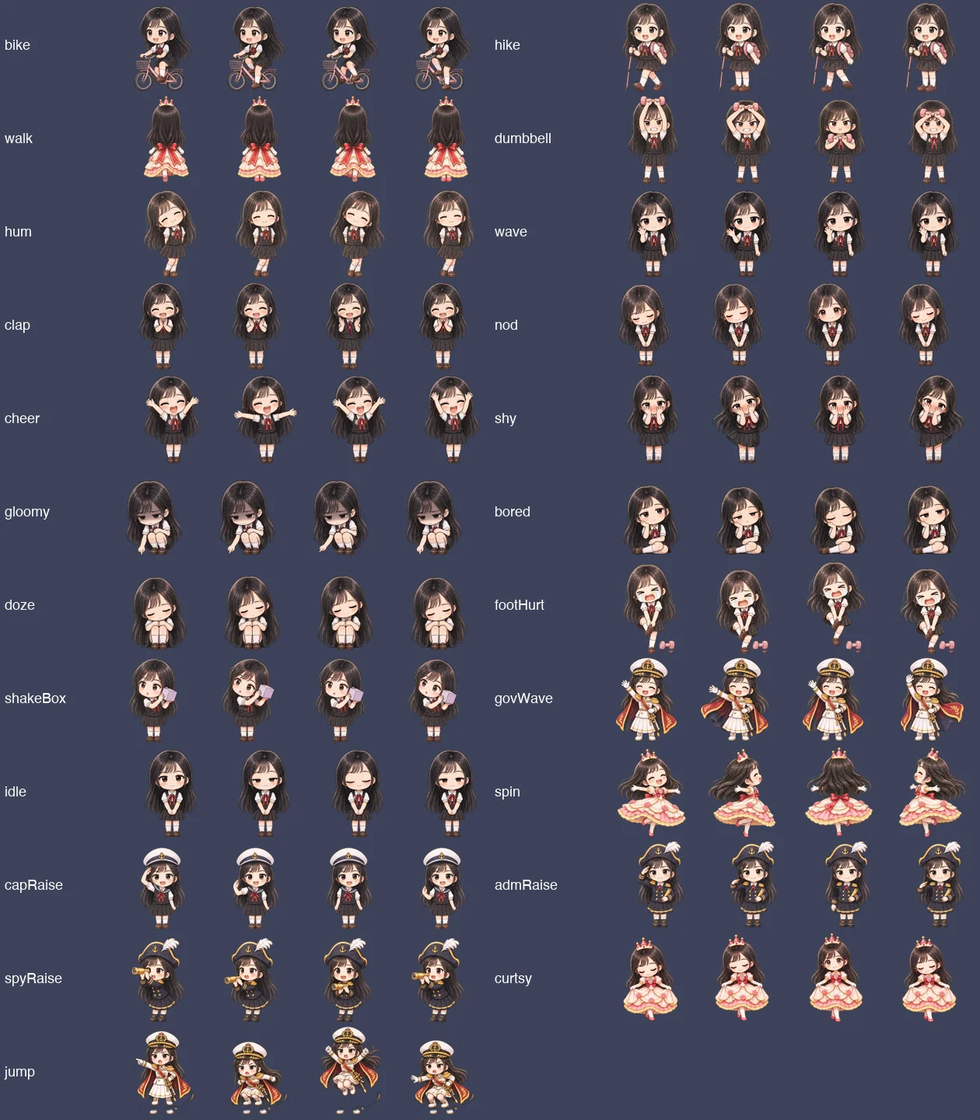
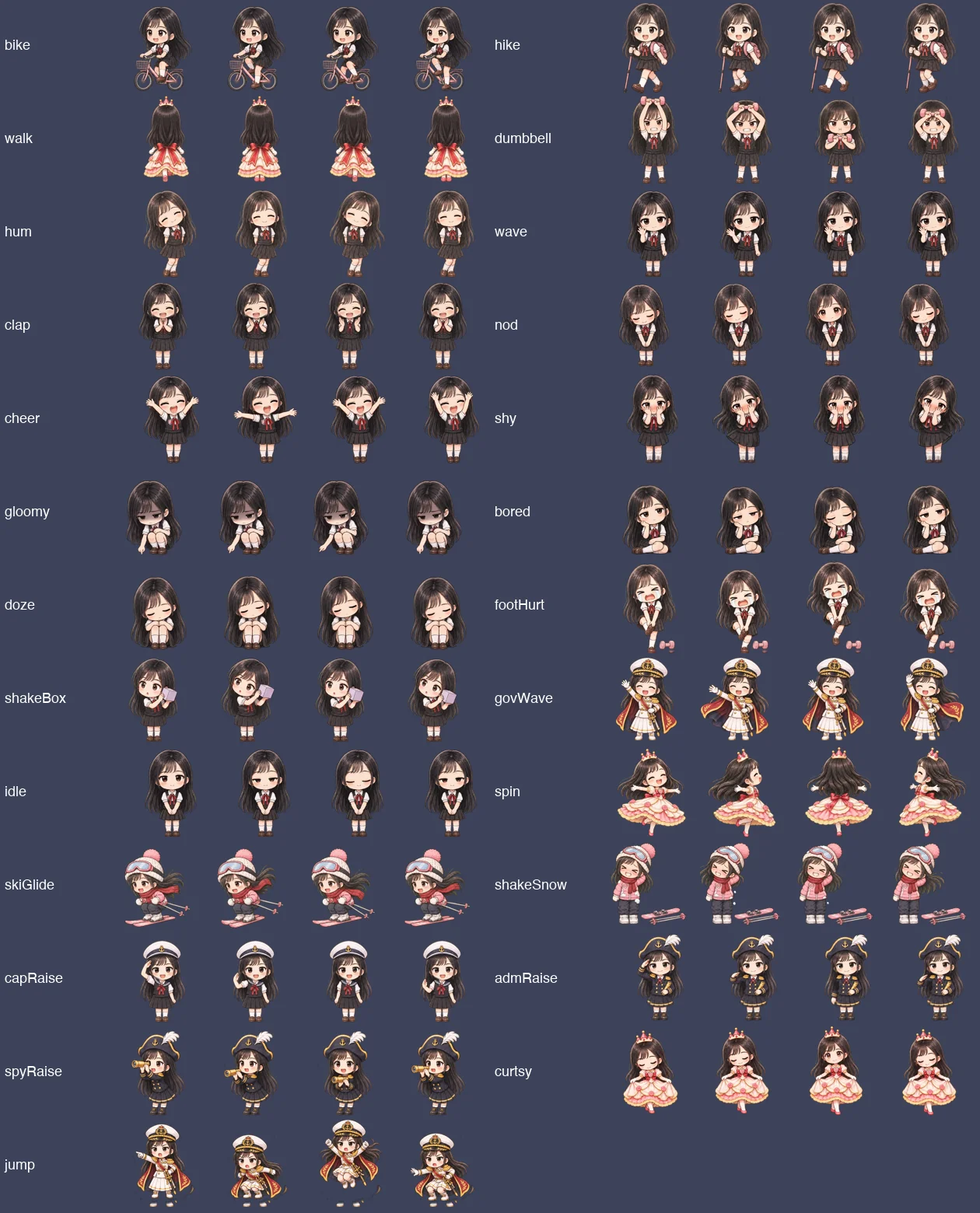
docs: skiing for the desktop pet: the ski outfit and pose sheet 9, gliding and snow-shaking loops, in-betweens for the push-off and the head-first dive into snow, snow effects, and the sprite dressing her for it (#343)

diff --git a/docs/design/desktop-pet/boards/DP-DesktopPet.dc.html b/docs/design/desktop-pet/boards/DP-DesktopPet.dc.html
@@ -21,7 +21,7 @@ const BLOB = {
   day: '44e8beefd8e45a42a6db32a53b6a334b',
   common: '42f6d5fefeb6902a1a4dc62b6c0067c8', lottery: '85f32c91efe3a008f7ed1db40b723468', daily1: '1f7f6b869458e1fe8e81a976d8c31c4b',
   daily2: '1280366333103c7aab9ebf8d542ec1d0', moods: '2056e8d40333e68b7ca945c2ca09b123', gifts: '721b9f2f46599b21e7a46be69defe025',
-  castleSheet: '77ad9c1043a788d9481660bca02fc61d', voyage: '2d87401633f8acd040fc4ad45a083fb6',
+  castleSheet: '77ad9c1043a788d9481660bca02fc61d', voyage: '2d87401633f8acd040fc4ad45a083fb6', ski9: 'ee1c422b8456422ef8a33aba40cd879a',
   sp1: '26e419983fd50915beebe9874c8f580f', sp2: '798d2599257e9749035aa3049a19ea28',
   castleClosed: 'a5423ebc571dd5c837a1759c2e34534f', castleOpen: '1fae311556a3e785a50c209107064a25', ship: '64f045ceb5e565290d330780f7c0006f',
   views: '7761f2f7cddf5ed1d69e16c20647f65b',
@@ -36,10 +36,11 @@ const POSE = {
   bored: ['moods', 1], gloomy: ['moods', 2], pout: ['moods', 3], shy: ['moods', 4], awake: ['moods', 5],
   giftBox: ['gifts', 1], shakeBox: ['gifts', 2], openBox: ['gifts', 3], crownV: ['gifts', 4], nod: ['gifts', 5],
   pIdle: ['castleSheet', 0], spin: ['castleSheet', 1], curtsy: ['castleSheet', 2], walkA: ['castleSheet', 3], walkB: ['castleSheet', 4], lookBack: ['castleSheet', 5],
+  skiReady: ['ski9', 1], ski: ['ski9', 2], skiDown: ['ski9', 3], skiPopOut: ['ski9', 4], skiShake: ['ski9', 5],
   capSalute: ['voyage', 1], govJump: ['voyage', 4], spyglass: ['voyage', 2], admSalute: ['voyage', 3], govPoint: ['voyage', 4], govWave: ['voyage', 5]
 };
 // Frame strips (textures/frames/<name>.webp, four frames in a row; tools/gen-frames.sh, tools/frame-patch.py), by blob.
-const FRAMES = {admRaise: '920a18b1f70d454f0d2b884c7d37ffeb', announceIn: '306b48e9115c2f0c13d29aadbf650756', awake: '4f027414161a138c012f61fe2b263359', bandageIn: '4468b7f7d9c64165a920f385d5f47d26', bandageOut: 'b7a0a17f9dec4d9c9ce8c04a11dd37c7', bike: '7206bd613e435e9426609c5552a4c815', bikeCrash: 'a1c683a18d6bb8e93046286341f31b97', bikeIn: 'e8ea46207bf7e4b84d8c726dcc6181e8', bored: 'a4fd757ecae8bdcac080f4e20cb5ccf2', boredGloomy: '98b8ddfe78bd8d6f40c70d1fe0fc2b64', bowIn: '4fd33bac034a8804e1dfd29875241114', boxOpen: 'ef5c7bfd191b3f22568fad0a803b253e', capRaise: '68cbd5c818e1c00ef3a0f9cae1a5344b', cheer: 'c9a119fda6ac63d8f8d472949b98bc35', cheerOut: 'c82759a6fb017322584b5ca4a291444b', clap: 'd7ca70eb6d31d788fa3a7e5ed4420ed7', crackIn: '87a1c1101bb84dcea9ace89cca0207f1', crackOut: 'a0850d3bd42b1d4cd9ce612029f2c6e1', crashUp: '0ad6886907739b5ebf634deb714d844f', crouchGloomy: '5608ce7bb43d12c81bd26f9d62d16942', crownIn: '60d1e736ef9a246e20d23b8711a06846', curtsy: 'a64d8440ff3a36b27ad4080e69db20c6', curtsyTurn: 'a5a3ad7628abc61b7079d2ec88c1774a', dejectedIn: '1ecea02c4aed0231fa402a0dd4882d46', doze: '847586754fb4e20f8cfc149a47469798', dropFoot: 'b21a232f44ceebac8ff1ef53e7e18fb3', dumbbell: '66f4fc15741691537abad54c757b0f4c', dumbbellIn: '172a69a54c88ca6b3aab1bfece198cb9', footHurt: '60b7171dc5901680cbb6fbcf061d8c71', footHurtOut: 'dcdddc6870cccd28e4a08cd600dae692', giftCheer: '327a50da69022e7599e70b0aa250a192', giftIn: '483f875031d6866af8f19372d5497f8c', gloomy: '62c2217eff19c08cbad011553eaa7f4b', gloomyDoze: '5977b9c36e757fa6dd611e60874bb912', govPointWave: '54ab6ea8f985130c8416f093ec54e98d', govWave: '9e3a9fdbcc32c4e3a607a595fac7c1f2', hike: '34df1a1ca19386e51a6db4f7b6c7c429', hikeIn: '140906319f4ef30e12f87e32efe1e358', hopeCheer: 'ad5cf07cda9161a1125c29ec50ff6d14', hopeClap: 'e82b99718817c003396b9211f552e97d', hopeIn: 'af9cf67116d97e77b8715834c1ea3946', hopeNod: '18d396277ea53803aab8025f4b89d334', hum: '5f4ff3fffcd8d3c47430a86da376574a', humIn: '2fdb1e22692896982c3d98cc6b3a8fee', idle: 'b74812427826eaf4098b1fbc4d1a78d4', jump: 'c51cb12468e4afb08561333bba777b51', lookBackIn: 'df3739f496aaa798f63696804b74d473', lookBackOut: '7bba58052852f687a6a473093b05036b', nod: '702f52ca11029fd9fd4ba08f5c01b626', openPout: 'e7845c90f17da61d3298b642c0bc095f', openSurprised: '5bb6d4fb8afe7fdb3772237b8383cd89', pointIn: '8472fc78f8e1f2debd8cd0b0edb2342e', shakeBox: '5beaa7f638ca7c0dbb0bcf90d731ba98', shakeIn: '48a29222f51ca2942ba5facfc09933fe', shy: '6879278a05024f916b5a9b8f8b3d9bf7', shyIn: '29596c210974361d003a980b0633b66a', sitBored: '80867232a5e50ab4272cb19a78ea3dbe', sitDoze: '9998909b0c3bc0a44ee1e17476715e09', slipFall: 'cc616b89034065ad154743b70b94882c', spFlag: '2e0e9fb19d5a8be126b12532f67cb877', spFly1: '83a5a48403903d4f39f9da51e0012294', spFly2: '87600b97c197c44a1cb9fc55cc76b84d', spFly3: '2f06f4e2aba9c2855b1c2fee22f6a1f4', spGlow: '0ae9d33e8e08c4cb20797bd64fcaeb0a', spHappy: '6fea3a2cde9432871a2a4a7b4b3a3b05', spHide: 'b3b7a681028216547fced194378e4642', spIdle: '70d620c5f164e57bd46e95154a9c8396', spNod: '631236e3cb235cf6e45d906ac4f70b41', spPat: '2e897fd4048e4fb2ba4e2fa9832931dd', spSleep: '5415e0a5fc476a9ac06e7427a3a9627c', spSurprised: '2a71af2381fb09f67fce34682a09c9e3', spYawn: '5dfd246affdea738a053630d72d7a726', spin: 'bc73c6bf04791daca5a8fb579648cced', spyRaise: '016558ba47cdc5e0e22cfd3120c2666e', spySalute: 'b5e2f2348aa7d42ac902dd0fc888a00a', surprisedCheer: '4afc354d6304b738b6ac2a463217db1b', surprisedIn: 'a76e1f3a09a188648ff99ed5f7d0b7c4', walk: '33afb9a37123ef3e90a974a91049ce57', wave: '39a6cd30e03a020265e6deb6404581a1', waveIn: 'dd074767e81d79dccc80b42cb58d22ab'};
+const FRAMES = {admRaise: '920a18b1f70d454f0d2b884c7d37ffeb', announceIn: '306b48e9115c2f0c13d29aadbf650756', awake: '4f027414161a138c012f61fe2b263359', bandageIn: '4468b7f7d9c64165a920f385d5f47d26', bandageOut: 'b7a0a17f9dec4d9c9ce8c04a11dd37c7', bike: '7206bd613e435e9426609c5552a4c815', bikeCrash: 'a1c683a18d6bb8e93046286341f31b97', bikeIn: 'e8ea46207bf7e4b84d8c726dcc6181e8', bored: 'a4fd757ecae8bdcac080f4e20cb5ccf2', boredGloomy: '98b8ddfe78bd8d6f40c70d1fe0fc2b64', bowIn: '4fd33bac034a8804e1dfd29875241114', boxOpen: 'ef5c7bfd191b3f22568fad0a803b253e', capRaise: '68cbd5c818e1c00ef3a0f9cae1a5344b', cheer: 'c9a119fda6ac63d8f8d472949b98bc35', cheerOut: 'c82759a6fb017322584b5ca4a291444b', clap: 'd7ca70eb6d31d788fa3a7e5ed4420ed7', crackIn: '87a1c1101bb84dcea9ace89cca0207f1', crackOut: 'a0850d3bd42b1d4cd9ce612029f2c6e1', crashUp: '0ad6886907739b5ebf634deb714d844f', crouchGloomy: '5608ce7bb43d12c81bd26f9d62d16942', crownIn: '60d1e736ef9a246e20d23b8711a06846', curtsy: 'a64d8440ff3a36b27ad4080e69db20c6', curtsyTurn: 'a5a3ad7628abc61b7079d2ec88c1774a', dejectedIn: '1ecea02c4aed0231fa402a0dd4882d46', doze: '847586754fb4e20f8cfc149a47469798', dropFoot: 'b21a232f44ceebac8ff1ef53e7e18fb3', dumbbell: '66f4fc15741691537abad54c757b0f4c', dumbbellIn: '172a69a54c88ca6b3aab1bfece198cb9', footHurt: '60b7171dc5901680cbb6fbcf061d8c71', footHurtOut: 'dcdddc6870cccd28e4a08cd600dae692', giftCheer: '327a50da69022e7599e70b0aa250a192', giftIn: '483f875031d6866af8f19372d5497f8c', gloomy: '62c2217eff19c08cbad011553eaa7f4b', gloomyDoze: '5977b9c36e757fa6dd611e60874bb912', govPointWave: '54ab6ea8f985130c8416f093ec54e98d', govWave: '9e3a9fdbcc32c4e3a607a595fac7c1f2', hike: '34df1a1ca19386e51a6db4f7b6c7c429', hikeIn: '140906319f4ef30e12f87e32efe1e358', hopeCheer: 'ad5cf07cda9161a1125c29ec50ff6d14', hopeClap: 'e82b99718817c003396b9211f552e97d', hopeIn: 'af9cf67116d97e77b8715834c1ea3946', hopeNod: '18d396277ea53803aab8025f4b89d334', hum: '5f4ff3fffcd8d3c47430a86da376574a', humIn: '2fdb1e22692896982c3d98cc6b3a8fee', idle: 'b74812427826eaf4098b1fbc4d1a78d4', jump: 'c51cb12468e4afb08561333bba777b51', lookBackIn: 'df3739f496aaa798f63696804b74d473', lookBackOut: '7bba58052852f687a6a473093b05036b', nod: '702f52ca11029fd9fd4ba08f5c01b626', openPout: 'e7845c90f17da61d3298b642c0bc095f', openSurprised: '5bb6d4fb8afe7fdb3772237b8383cd89', pointIn: '8472fc78f8e1f2debd8cd0b0edb2342e', shakeBox: '5beaa7f638ca7c0dbb0bcf90d731ba98', shakeIn: '48a29222f51ca2942ba5facfc09933fe', shakeSnow: '68e683906ab52c85073f189513ae753a', shy: '6879278a05024f916b5a9b8f8b3d9bf7', shyIn: '29596c210974361d003a980b0633b66a', sitBored: '80867232a5e50ab4272cb19a78ea3dbe', sitDoze: '9998909b0c3bc0a44ee1e17476715e09', skiFall: 'cdd6a4797f82513ffcdf9be2a6fcad0d', skiGlide: '3fe5bd0a4f5179defe1adc42d1de8223', skiGo: 'e2a516ecc2531d03d5439b767197cd2e', skiPop: 'c44fb1549510b4e2b0a9ad04a62bdf87', skiUp: '15d4b2b2af6c0b5321c88fadef2d9270', slipFall: 'cc616b89034065ad154743b70b94882c', spFlag: '2e0e9fb19d5a8be126b12532f67cb877', spFly1: '83a5a48403903d4f39f9da51e0012294', spFly2: '87600b97c197c44a1cb9fc55cc76b84d', spFly3: '2f06f4e2aba9c2855b1c2fee22f6a1f4', spGlow: '0ae9d33e8e08c4cb20797bd64fcaeb0a', spHappy: '6fea3a2cde9432871a2a4a7b4b3a3b05', spHide: 'b3b7a681028216547fced194378e4642', spIdle: '70d620c5f164e57bd46e95154a9c8396', spNod: '631236e3cb235cf6e45d906ac4f70b41', spPat: '2e897fd4048e4fb2ba4e2fa9832931dd', spSleep: '5415e0a5fc476a9ac06e7427a3a9627c', spSurprised: '2a71af2381fb09f67fce34682a09c9e3', spYawn: '5dfd246affdea738a053630d72d7a726', spin: 'bc73c6bf04791daca5a8fb579648cced', spyRaise: '016558ba47cdc5e0e22cfd3120c2666e', spySalute: 'b5e2f2348aa7d42ac902dd0fc888a00a', surprisedCheer: '4afc354d6304b738b6ac2a463217db1b', surprisedIn: 'a76e1f3a09a188648ff99ed5f7d0b7c4', walk: '33afb9a37123ef3e90a974a91049ce57', wave: '39a6cd30e03a020265e6deb6404581a1', waveIn: 'dd074767e81d79dccc80b42cb58d22ab'};
 // Poses that move: the strip f, drawn from the pose's own cell, as a loop at ms per frame, a loop of [frame, ms] steps, or
 // once: [frame, ms] steps from when the pose begins, holding the last.
 const STRIP = {
@@ -50,6 +51,7 @@ const STRIP = {
   idle: { f: 'idle', loop: [[0, 3400], [1, 50], [2, 70], [3, 50]] }, bored: { f: 'bored', loop: [[0, 2600], [1, 160], [2, 500], [3, 160]] },
   capSalute: { f: 'capRaise', once: [[2, 120], [1, 100], [0, 0]] }, admSalute: { f: 'admRaise', once: [[2, 120], [1, 100], [0, 0]] },
   spyglass: { f: 'spyRaise', once: [[2, 140], [1, 120], [0, 0]] }, curtsy: { f: 'curtsy', once: [[2, 200], [1, 160], [0, 0]] },
+  ski: { f: 'skiGlide', ms: 170 }, skiShake: { f: 'shakeSnow', ms: 110 },
   govJump: { f: 'jump', once: [[0, 60], [1, 140], [2, 300], [3, 160], [0, 0]] }
 };
 // The sprite's drawings that move, [strip, ms per frame]; v1–v3 are its turnaround views flying.
@@ -68,7 +70,8 @@ const TRANS = {
   'idle>dejected': 'dejectedIn', 'idle>dumbbell': 'dumbbellIn', 'dumbbell>footHurt': 'dropFoot', 'footHurt>idle': 'footHurtOut', 'idle>hum': 'humIn',
   'hum>crack': 'crackIn', 'crack>idle': 'crackOut', 'idle>hike': 'hikeIn', 'idle>bike': 'bikeIn', 'slip>bandage': 'bandageIn', 'crash>bandage': 'crashUp',
   'bandage>idle': 'bandageOut', 'curtsy>walkA': 'curtsyTurn', 'walkA>lookBack': 'lookBackIn', 'lookBack>pIdle': 'lookBackOut',
-  'govPoint>govWave': 'govPointWave', 'bored>gloomy': 'boredGloomy', 'gloomy>doze': 'gloomyDoze', 'idle>surprised': 'surprisedIn'
+  'govPoint>govWave': 'govPointWave', 'bored>gloomy': 'boredGloomy', 'gloomy>doze': 'gloomyDoze', 'idle>surprised': 'surprisedIn',
+  'skiReady>ski': 'skiGo', 'ski>skiDown': 'skiFall', 'skiDown>skiPopOut': 'skiPop', 'skiPopOut>skiShake': 'skiUp'
 };
 const SPRITE = { flag: ['sp1', 1], nod: ['sp1', 2], surprised: ['sp1', 3], yawn: ['sp1', 4], sleep: ['sp1', 5], pat: ['sp2', 1], crown: ['sp2', 2], sailor: ['sp2', 3], glow: ['sp2', 4], hide: ['sp2', 5] };
 // The sprite keeps these drawings while it flies, since they carry something.
@@ -111,7 +114,7 @@ const EVENT_FX = {
   没人报名: { fx: [['gloom', 200, 2200], ['rain', 400, 2000], ['leaf', 300]] }
 };
 // Effects drawn behind her (glows, rays, focus lines, rings on the ground, speed lines); the rest go in front.
-const BACK = new Set(['halo', 'rays', 'burst', 'spot', 'shockwave', 'speed']);
+const BACK = new Set(['halo', 'rays', 'burst', 'spot', 'shockwave', 'speed', 'spray']);
 const TIER = { S: 4, A: 3, B: 2, C: 1, D: 0 };
 const EVENTS = {
   进场: { tier: 'C', dur: 1600 }, 普通礼物: { tier: 'C', dur: 2000, gift: true }, 连着送: { tier: 'C', dur: 2000, gift: true },
@@ -151,13 +154,14 @@ const LINES = {
   冷场后来了人: ['啊！有人来了！', '我、我没睡着！'],
   举哑铃: ['今天也要锻炼！'], 哼歌: ['♪啦啦啦～'], 爬山: ['下次一起去爬山吧！', '山顶的风好舒服～'], 骑车: ['叮铃叮铃～', '骑车去兜风！'],
   砸到脚: ['好痛痛痛！', '又、又砸到了…'], 破音: ['咳、咳…刚才不算！', '破、破音了…'], 摔屁股墩: ['哎呦…屁股好痛…', '山路好滑…'],
-  骑车摔倒: ['车、车子不听话…', '呜…又摔了…'], 贴创可贴: ['贴一下就好啦！', '创可贴…又要用完了']
+  骑车摔倒: ['车、车子不听话…', '呜…又摔了…'],
+  滑雪: ['滑雪好开心～', '看我的！'], 滑雪摔跤: ['噗…全是雪…', '雪、雪好冰！'], 贴创可贴: ['贴一下就好啦！', '创可贴…又要用完了']
 };
 const NAMES = { 普通昵称: '星河', 长昵称: '这是一个非常非常长的昵称啊', 中英混排: 'Lily月下' };
 const GIFT = { 普通礼物: '小花花', 连着送: '小花花', 大礼物: '告白气球', 盲盒开大: '告白气球', 盲盒开亏: '小花花', 城堡: '浪漫城堡' };
 const PAGE = { w: 480, h: 640 }, H = 250, FOOT = { x: 240, y: 626 };
 const SPRITE_H = 76, NAME_MAX = 8;
-const DAILY = { 举哑铃: [3000, 2000], 哼歌: [4000, 1500], 爬山: [4000, 4500], 骑车: [4000, 4500] };  // main, then the mishap and its bandage
+const DAILY = { 举哑铃: [3000, 2000], 哼歌: [4000, 1500], 爬山: [4000, 4500], 骑车: [4000, 4500], 滑雪: [4900, 4300] };  // main, then the mishap and its bandage
 
 const seeded = seed => () => { seed |= 0; seed = seed + 0x6D2B79F5 | 0; let t = Math.imul(seed ^ seed >>> 15, 1 | seed); t = t + Math.imul(t ^ t >>> 7, 61 | t) ^ t; return ((t ^ t >>> 14) >>> 0) / 4294967296; };
 const clamp = (v, a, b) => Math.max(a, Math.min(b, v));
@@ -196,7 +200,7 @@ class Component extends DCLogic {
     // centred in their thirds, so the cell centre would shift her sideways between poses), and every sheet is scaled by its
     // first cell (the idle ruler).
     this.cells = {};
-    for (const k of ['common', 'lottery', 'daily1', 'daily2', 'moods', 'gifts', 'castleSheet', 'voyage', 'sp1', 'sp2']) {
+    for (const k of ['common', 'lottery', 'daily1', 'daily2', 'moods', 'gifts', 'castleSheet', 'voyage', 'ski9', 'sp1', 'sp2']) {
       const im = img[k], cw = im.width / 3, ch = im.height / 2, list = [];
       for (let i = 0; i < 6; i++) list.push(box(im, (i % 3) * cw, Math.floor(i / 3) * ch, cw, ch));
       const ground = [0, 1].map(r => Math.max(...list.slice(r * 3, r * 3 + 3).filter(Boolean).map(b => b.y + b.h)));
@@ -298,7 +302,7 @@ class Component extends DCLogic {
       }
     }
     if (!this.cur && this.mood(now) === '平静' && !this.lot && now >= this.nextDaily) {
-      const kind = ['举哑铃', '哼歌', '爬山', '骑车'][Math.floor(this.rng() * 4)], mishap = this.rng() < 0.25;
+      const kinds = Object.keys(DAILY), kind = kinds[Math.floor(this.rng() * kinds.length)], mishap = this.rng() < 0.25;
       this.start('日常', { kind, mishap });
     }
   }
@@ -424,6 +428,7 @@ class Component extends DCLogic {
   }
 
   daily(t, st, o) {
+    if (o.kind === '滑雪') return this.ski(t, st, o);
     const main = DAILY[o.kind][0];
     st._t = t;
     const say = (from, key) => { if (t >= from) st.bubble = { text: LINES[key][(o.seed || 0) % LINES[key].length], t: t - from }; };
@@ -457,6 +462,32 @@ class Component extends DCLogic {
       if (u >= 2000) st.bubble.t = u - 2000;
       if (u < 450) { st.sprite = 'surprised'; st.sp = lead; } else if (u < 2000) { st.sprite = 'pat'; st.sp = 'head'; } else { st.sprite = 'nod'; st.sp = ['rel', -0.06, 0.5]; }
     }
+    return st;
+  }
+
+  // Skiing (README 6): the sprite dresses her for the snow and it starts snowing; she pushes off and glides along, the
+  // sprite flying beside her. If it goes wrong she dives head-first into a heap of snow, wriggles out dazed and shakes the
+  // snow off, the sprite patting her. Either way the sprite dresses her back. A dive into soft snow is no scrape: no plaster.
+  ski(t, st, o) {
+    st._t = t;
+    const say = (from, key) => { if (t >= from) st.bubble = { text: LINES[key][(o.seed || 0) % LINES[key].length], t: t - from }; };
+    const end = DAILY.滑雪[0] + (o.mishap ? DAILY.滑雪[1] : 0), back = end - 900, glide = o.mishap ? 3600 : 4100;
+    st.fx.push(['snow', 0, end], ['flash', 700, 0.8], ['flash', back + 700, 0.8]);
+    if (t < 700) { this.dress(st, t, 0, 700); return st; }
+    if (t >= back + 700) { st.sprite = 'sHappy'; return st; }
+    if (t < 1100) { st.pose = 'skiReady'; st.sprite = 'sHappy'; }
+    else if (t < glide) {
+      st.pose = 'ski'; st.x += 10 * Math.sin((t - 1100) / 700); st.sView = 'v2'; st.sp = ['rel', -0.22, 0.3];
+      st.fx.push(['speed', 1100, glide - 1300], ['spray', 1100, glide - 1100]);
+    } else if (!o.mishap) st.pose = 'skiReady';
+    else {
+      st.pose = t < 4600 ? 'skiDown' : t < 5700 ? 'skiPopOut' : 'skiShake';
+      if (t < 4000) { st.sprite = 'surprised'; st.sp = ['rel', -0.22, 0.3]; } else { st.sprite = 'pat'; st.sp = 'head'; }
+      st.fx.push(['snowBurst', 3700], ['impact', 3700, [0.45, 0.85]], ['dizzy', 4700, 1000], ['snowShake', 5800, 2200]);
+      st.shake = [[3700, 3, 260]];
+    }
+    if (t >= back) this.dress(st, t, back, back + 700);
+    say(1300, '滑雪'); if (o.mishap) say(3700, '滑雪摔跤');
     return st;
   }
 
@@ -529,8 +560,8 @@ class Component extends DCLogic {
     const scene = this.cfg.scene, name = this.cfg.name;
     const ev = (n, t, opts = {}) => this.eventState(n, t, opts, this.fill(LINES[n]?.[0], n));
     if (scene === '平时') {
-      const plan = [[2000, '举哑铃', true], [9000, '哼歌', false], [16000, '爬山', true], [27000, '骑车', false]];
-      const t = now % 34000;
+      const plan = [[2000, '举哑铃', true], [9000, '哼歌', false], [16000, '爬山', true], [27000, '骑车', false], [33000, '滑雪', true]];
+      const t = now % 44000;
       for (const [s, kind, mishap] of plan) {
         const dur = DAILY[kind][0] + (mishap ? DAILY[kind][1] : 0);
         if (t >= s && t < s + dur) return this.daily(t - s, this.base(), { kind, mishap, seed: 0 });
@@ -1062,6 +1093,44 @@ class Component extends DCLogic {
         g.save(); g.translate(x, y); g.rotate(-p * 12); g.fillStyle = '#C49A5A'; g.strokeStyle = '#8A6A3A'; g.lineWidth = 1.5;
         g.beginPath(); g.ellipse(0, 0, 10, 5, 0, 0, Math.PI * 2); g.fill(); g.stroke(); g.beginPath(); g.moveTo(-10, 0); g.lineTo(10, 0); g.stroke(); g.restore(); break;
       }
+      // ---- snow
+      case 'snow': {
+        const a = life(t, 500, (f[2] || 5000) - 1000, 500); if (!a) break;
+        g.save(); g.fillStyle = '#fff';
+        for (let i = 0; i < 40; i++) {
+          const fall = 0.04 + r() * 0.05, x0 = r() * PAGE.w, y = (r() * PAGE.h + t * fall) % (PAGE.h + 20) - 10;
+          g.globalAlpha = a * (0.5 + 0.5 * r()); g.beginPath(); g.arc(x0 + 12 * Math.sin(t / 700 + i), y, 1.5 + r() * 2.5, 0, Math.PI * 2); g.fill();
+        }
+        g.restore(); break;
+      }
+      case 'spray': {
+        if (t > (f[2] || 3000)) break;
+        g.save(); g.fillStyle = '#fff';
+        for (let i = 0; i < 14; i++) {
+          const u = (t + i * 70) % 600 / 600, x = her.x + her.w * 0.85 + u * 60 + (i % 4) * 4, y = st.y - 6 - 120 * u * (1 - u) * (0.6 + (i % 3) * 0.2);
+          g.globalAlpha = 0.85 * (1 - u); g.beginPath(); g.arc(x, y, 2 + u * 4, 0, Math.PI * 2); g.fill();
+        }
+        g.restore(); break;
+      }
+      case 'snowBurst': {
+        if (t > 800) break;
+        const p = at(0.45, 0.8);
+        g.save(); g.fillStyle = '#fff'; g.strokeStyle = '#D6E6F5'; g.lineWidth = 1.5;
+        for (let i = 0; i < 12; i++) {
+          const ang = Math.PI * (1.05 + i / 11 * 0.9), dd = 20 + 70 * ease(Math.min(1, t / 500));
+          g.globalAlpha = 1 - k01(t, 400, 800); g.beginPath(); g.arc(p.x + Math.cos(ang) * dd, p.y + Math.sin(ang) * dd * 0.7, 8 + 6 * (i % 3), 0, Math.PI * 2); g.fill(); g.stroke();
+        }
+        g.restore(); break;
+      }
+      case 'snowShake': {
+        if (t > (f[2] || 2000)) break;
+        g.save(); g.fillStyle = '#fff';
+        for (let i = 0; i < 10; i++) {
+          const u = (t + i * 90) % 500, side = i % 2 ? 1 : -1, x = head.x + side * (her.w * 0.25 + u * 0.15), y = her.y + her.h * (0.15 + (i % 4) * 0.08) - u * 0.05 + 0.0005 * u * u;
+          g.globalAlpha = 1 - u / 500; g.beginPath(); g.arc(x, y, 3 + i % 3, 0, Math.PI * 2); g.fill();
+        }
+        g.restore(); break;
+      }
       case 'z': for (let i = 0; i < 3; i++) { const u = (now + i * 900) % 2700; g.save(); g.globalAlpha = Math.sin(Math.PI * u / 2700); g.fillStyle = '#C9D6FF'; g.font = `700 ${16 + i * 5}px sans-serif`; g.fillText('Z', her.x + her.w * 0.75 + u * 0.02, her.y + 10 - u * 0.035); g.restore(); } break;
     }
   }
@@ -1103,7 +1172,8 @@ class Component extends DCLogic {
       ['揭晓·大奖', f('揭晓·大奖')], ['揭晓·二奖', f('揭晓·二奖')], ['揭晓·三奖', f('揭晓·三奖')], ['没人报名', f('没人报名')], ['抽奖结束', () => { this.lot = null; }]]);
     const d = (kind, mishap) => () => this.fire('日常', { kind, mishap });
     group('日常', [['举哑铃', d('举哑铃', false)], ['砸到脚', d('举哑铃', true)], ['哼歌', d('哼歌', false)], ['破音', d('哼歌', true)],
-      ['爬山', d('爬山', false)], ['摔屁股墩', d('爬山', true)], ['骑车', d('骑车', false)], ['骑车摔倒', d('骑车', true)]]);
+      ['爬山', d('爬山', false)], ['摔屁股墩', d('爬山', true)], ['骑车', d('骑车', false)], ['骑车摔倒', d('骑车', true)],
+      ['滑雪', d('滑雪', false)], ['滑雪摔跤', d('滑雪', true)]]);
     group('时间', [['快进 10 分钟', () => this.fastForward(10)], ['快进 30 分钟', () => this.fastForward(30)], ['回到刚有礼物', () => { this.lastGift = this.lastAny = this.now(); }]]);
     const fit = () => { const r = document.getElementById('root'); if (r) r.style.zoom = Math.min(innerWidth / 1920, (innerHeight - bar.offsetHeight) / 1080); };
     addEventListener('resize', fit); setTimeout(fit, 50);

diff --git a/docs/design/desktop-pet/README.md b/docs/design/desktop-pet/README.md
@@ -58,8 +58,8 @@
 | 盲盒 | 凑到盒边和她一起听；开大时被光冲得往后弹，再在她旁边蹦；开亏时躲烟抱头，再飞去摸她的头 |
 | 舰长、提督、总督 | 发着光绕她转一圈，带出换装闪光；舰长、提督时换水手领在她身旁敬礼，提督时还去她望远镜的方向瞭望打信号，总督时飞上后桅杆 |
 | 抽奖 | 宣布时飞到她举起的拳头旁挥旗；等开奖时抬头看她、发抖；点名时顺着她手指方向冲出去挥旗；大奖被抛起绕圈，二奖跟她的掌声蹦，三奖和她一起点头 |
-| 日常 | 举哑铃时挥旗打拍子；哼歌时跟着摇；爬山时在前面领路；骑车时侧身并排飞 |
-| 出事 | 先吓一跳再过去：砸到脚就飞到脚边揉，破音就抱头，摔倒就飞回来摸头，贴创可贴时在旁边点头 |
+| 日常 | 举哑铃时挥旗打拍子；哼歌时跟着摇；爬山时在前面领路；骑车、滑雪时侧身并排飞；滑雪前后转圈给她换装 |
+| 出事 | 先吓一跳再过去：砸到脚就飞到脚边揉，破音就抱头，摔倒就飞回来摸头，贴创可贴时在旁边点头，扎进雪堆就飞过去摸头 |
 | 心情 | 平时隔一会儿抬头看她；无聊时懒洋洋地飘、打哈欠；沮丧时摸头；犯困时靠在她膝盖旁睡，她磕醒时一起吓醒 |
 
 ## 2. 档位和优先级
@@ -162,7 +162,7 @@
 | 犯困 | 60 分钟什么事件都没有 | 打瞌睡 | 睡觉，靠着她 | 犯困（梦话），代码画 Z |
 
 - 心情台词：落进这种心情（或一段演出结束回到它）0.6 秒后说第一句，之后每 15 秒换下一句，每句停 4 秒。第一版每 30 秒才说 3 秒，用户看的时候以为沮丧没有气泡。
-- 日常小动作：举哑铃、哼歌（代码画音符）、爬山（原地迈步）、骑车（代码让车上下颠），随机选一个。
+- 日常小动作：举哑铃、哼歌（代码画音符）、爬山（原地走路）、骑车（代码让车上下颠）、滑雪，随机选一个。滑雪要换衣服：精灵绕她转一圈换成滑雪服（`textures/ski-sheet.webp`，两版对比在 `preview/ski-sheets.webp`，选 b），页面开始飘雪，她撑杖出发、压低身子往左滑，板后扬雪；最后精灵再转一圈换回，雪停。约 5 秒。
 - 每个日常小动作有 1/4 的几率出点事，她本来就是经常把自己弄伤的健身新手。她平时不贴创可贴；只有运动时摔倒擦伤才接"贴创可贴"，再回到待机：
 
   | 小动作 | 出的事 | 之后 | 台词 |
@@ -171,6 +171,7 @@
   | 哼歌 | 唱破音：捂着嘴、脸通红 | 回到待机 | 日常·破音 |
   | 爬山 | 脚下一滑，摔了个屁股墩，擦伤膝盖 | 贴创可贴 → 待机 | 日常·摔屁股墩、日常·贴创可贴 |
   | 骑车 | 车把一歪连人带车摔倒 | 贴创可贴 → 待机 | 日常·骑车摔倒、日常·贴创可贴 |
+  | 滑雪 | 板一绊，一头扎进雪堆，两腿朝天、滑雪板交叉成 X | 钻出来、晕乎乎 → 甩头抖雪 → 换回衣服（扎进软雪不算擦伤，不贴创可贴） | 日常·滑雪摔跤 |
   | 打瞌睡（犯困时，每半分钟一次） | 头一点磕到膝盖 | 惊醒，精灵也吓一跳，接着睡 | 冷场后来了人 |
 - 冷场后来了事件：心情是沮丧或犯困时，先演"惊醒"，说"冷场后来了人"的台词，再接这件事的演出。
 
@@ -214,12 +215,13 @@
 | 报名中 | 发「{关键字}」就能报名哦～／还在报名中…快来快来！ |
 | 等开奖 | 会是谁呢…好紧张／心、心跳好快… |
 | 冷场后来了人 | 啊！有人来了！／我、我没睡着！ |
-| 日常 | 举哑铃：今天也要锻炼！／哼歌：♪啦啦啦～／爬山：下次一起去爬山吧！、山顶的风好舒服～／骑车：叮铃叮铃～、骑车去兜风！ |
+| 日常 | 举哑铃：今天也要锻炼！／哼歌：♪啦啦啦～／爬山：下次一起去爬山吧！、山顶的风好舒服～／骑车：叮铃叮铃～、骑车去兜风！／滑雪：滑雪好开心～、看我的！ |
 | 日常·砸到脚 | 好痛痛痛！／又、又砸到了… |
 | 日常·破音 | 咳、咳…刚才不算！／破、破音了… |
 | 日常·摔屁股墩 | 哎呦…屁股好痛…／山路好滑… |
 | 日常·骑车摔倒 | 车、车子不听话…／呜…又摔了… |
 | 日常·贴创可贴 | 贴一下就好啦！／创可贴…又要用完了 |
+| 日常·滑雪摔跤 | 噗…全是雪…／雪、雪好冰！ |
 
 ### 7.1 特效
 
@@ -267,8 +269,8 @@
 | 总督 | 看到大船时"!"和惊吓线，大船停下时震，换装时集中线，在船上时身后光芒，跳上跳下时扬尘 |
 | 城堡 | "!"、转圈变身时一圈星星、屈膝礼时光晕和花瓣，跑回来落地时扬尘和光圈，城堡升起时轻震 |
 | 抽奖 | 宣布时聚光灯、"!"、彩带；截止时惊吓线和汗；转动时绕她转的星星；点名时聚光灯、"!"、手指方向一团星星；揭晓前一直冒汗；大奖时集中线、光芒、光晕、震一下，二奖光晕和彩带，三奖一团星星和爱心；没人报名时阴影竖线、小乌云下雨、一片枯叶飘过 |
-| 日常 | 举哑铃每举一下一滴汗；爬山每一步扬尘、冒汗；骑车速度线、车轮扬尘 |
-| 出事 | 砸到脚：脚边冲击星、眼泪、轻震；破音：裂开的音符、惊吓线、汗；摔倒：冲击星、扬尘、晕星、震一下；贴好创可贴时膝盖上一闪 |
+| 日常 | 举哑铃每举一下一滴汗；爬山每一步扬尘、冒汗；骑车速度线、车轮扬尘；滑雪满页飘雪、板后扬雪、速度线 |
+| 出事 | 砸到脚：脚边冲击星、眼泪、轻震；破音：裂开的音符、惊吓线、汗；摔倒：冲击星、扬尘、晕星、震一下；贴好创可贴时膝盖上一闪；扎进雪堆：雪团炸开、冲击星、震一下，钻出来晕星，抖雪时雪粒往两边飞 |
 | 心情 | 无聊时隔一阵冒"…"、叹一口气；沮丧时头顶阴影竖线；惊醒时"!"、惊吓线、汗 |
 
 性能：同时在画的粒子控制在百颗以内，光效用渐变一次画好，不用每颗粒子的模糊阴影。各段特效的截图在 `preview/board-effects.webp`。
@@ -291,6 +293,7 @@
 | 6 礼物 | 待机、捧大礼物盒、摇盲盒、打开盲盒冒光、扶着王冠比 V、笑着点头 |
 | 7 城堡 | 公主待机（这张的尺子，和平时待机一样高）、转圈变身、屈膝礼、背面走路 A（左脚）、背面走路 B（右脚）、回头挥手；全穿公主装（已出，`textures/pose-7-castle.webp`） |
 | 8 大航海 | 待机（平时衣服，当尺子）、舰长敬礼、提督举望远镜、提督敬礼、总督指向前方、总督挥手（已出，`textures/pose-8-voyage.webp`） |
+| 9 滑雪 | 待机（平时衣服，当尺子）、穿滑雪服踩板拄杖、压低身子滑、一头扎进雪堆、坐在雪堆里钻出来、甩头抖雪（已出，`textures/pose-9-ski.webp`，两版对比在 `preview/pose-9-sheets.webp`，选 a：b 的第一格平时衣服画成了长袖；codex 在透明底边上留了一圈半透明光晕，透明度低于 64 的清掉、其余拉回满范围） |
 
 **精灵的动作**（已出，`textures/sprite-pose-*.webp`，总览在 `preview/sprite-pose-sheets.webp`；平时、眨眼、看向右边、开心另有单张，在 `mascot/textures/`）：
 
@@ -305,9 +308,9 @@
 
 | 类 | 组 |
 |---|---|
-| 她·循环 | bike 蹬车、hike 原地迈步、walk 城堡背面走路、dumbbell 举哑铃、hum 哼歌摇摆、wave 挥手、clap 鼓掌、nod 点头、cheer 欢呼挥臂、shy 害羞扭动、gloomy 画圈圈、bored 发呆眨眼、doze 打瞌睡呼吸、footHurt 单脚跳、shakeBox 摇盲盒、govWave 总督挥手、idle 待机眨眼、spin 转圈变身 |
+| 她·循环 | bike 蹬车、hike 原地迈步、walk 城堡背面走路、dumbbell 举哑铃、hum 哼歌摇摆、wave 挥手、clap 鼓掌、nod 点头、cheer 欢呼挥臂、shy 害羞扭动、gloomy 画圈圈、bored 发呆眨眼、doze 打瞌睡呼吸、footHurt 单脚跳、shakeBox 摇盲盒、govWave 总督挥手、idle 待机眨眼、spin 转圈变身、skiGlide 滑雪左右压板、shakeSnow 甩头抖雪 |
 | 她·播一遍 | capRaise 舰长抬手敬礼、admRaise 提督抬手敬礼、spyRaise 举起望远镜、curtsy 屈膝礼、jump 总督跳上船（下蹲、腾空、落地） |
-| 她·过渡（只用中间两帧，倒着播就是反方向） | bowIn 站→鞠躬、sitBored 站→坐下发呆、crouchGloomy 站→蹲下画圈圈、sitDoze 站→抱膝打瞌睡、slipFall 爬山→摔屁股墩、bikeCrash 骑车→摔倒、boxOpen 摇盲盒→打开、giftCheer 捧礼物→欢呼、awake 打瞌睡→惊醒、waveIn 站→挥手、shyIn 站→捂脸、giftIn 礼物盒掉进手里、cheerOut 欢呼→站、crownIn 王冠落到头上、shakeIn 拿起盲盒、openSurprised 打开→惊讶、surprisedCheer 惊讶→欢呼、openPout 打开→鼓腮、spySalute 收起望远镜敬礼、announceIn 举拳宣布、hopeIn 合手期待、hopeCheer 期待→欢呼、hopeClap 期待→鼓掌、hopeNod 期待→点头、pointIn 点名、dejectedIn 失落、dumbbellIn 捡起哑铃、dropFoot 哑铃砸脚、footHurtOut 放下脚、humIn 开始哼歌、crackIn 破音、crackOut 破音→站、hikeIn 背上背包、bikeIn 跨上自行车、bandageIn 摔屁股墩→贴创可贴、crashUp 摔车→坐起贴创可贴、bandageOut 贴完站起、curtsyTurn 屈膝礼→转身、lookBackIn 停步回头、lookBackOut 回头→转过身、govPointWave 指向→挥手、boredGloomy 发呆→画圈圈、gloomyDoze 画圈圈→打瞌睡、surprisedIn 站→惊讶 |
+| 她·过渡（只用中间两帧，倒着播就是反方向） | bowIn 站→鞠躬、sitBored 站→坐下发呆、crouchGloomy 站→蹲下画圈圈、sitDoze 站→抱膝打瞌睡、slipFall 爬山→摔屁股墩、bikeCrash 骑车→摔倒、boxOpen 摇盲盒→打开、giftCheer 捧礼物→欢呼、awake 打瞌睡→惊醒、waveIn 站→挥手、shyIn 站→捂脸、giftIn 礼物盒掉进手里、cheerOut 欢呼→站、crownIn 王冠落到头上、shakeIn 拿起盲盒、openSurprised 打开→惊讶、surprisedCheer 惊讶→欢呼、openPout 打开→鼓腮、spySalute 收起望远镜敬礼、announceIn 举拳宣布、hopeIn 合手期待、hopeCheer 期待→欢呼、hopeClap 期待→鼓掌、hopeNod 期待→点头、pointIn 点名、dejectedIn 失落、dumbbellIn 捡起哑铃、dropFoot 哑铃砸脚、footHurtOut 放下脚、humIn 开始哼歌、crackIn 破音、crackOut 破音→站、hikeIn 背上背包、bikeIn 跨上自行车、bandageIn 摔屁股墩→贴创可贴、crashUp 摔车→坐起贴创可贴、bandageOut 贴完站起、curtsyTurn 屈膝礼→转身、lookBackIn 停步回头、lookBackOut 回头→转过身、govPointWave 指向→挥手、boredGloomy 发呆→画圈圈、gloomyDoze 画圈圈→打瞌睡、surprisedIn 站→惊讶、skiGo 撑杖出发、skiFall 绊倒扎进雪堆、skiPop 从雪里钻出来、skiUp 站起来 |
 | 精灵·循环 | spIdle 飘浮摆尾、spHappy 开心蹦、spFlag 挥旗、spNod 点头、spSurprised 吓一跳、spYawn 打哈欠、spSleep 睡觉呼吸、spPat 摸头、spGlow 发光、spHide 抱头发抖、spFly1–3 四分之三、侧面、背面飞行摆尾 |
 
 **道具和设定图：**
@@ -325,6 +328,7 @@
 - `gen-castle.sh <目录> <名字> <城堡参考图> <表文件>`：城堡设定图（`castle-sheet.txt`）；`gen-castle-final.sh` 出定稿的透明图（`castle-final.txt`）。提示词是 `castle-base.txt`、`castle-negative.txt`；城堡参考图是礼物截图，不在仓库，只取通用的童话元素。
 - `gen-princess.sh <目录> <名字> <表文件>`：公主装设定图（`princess-base.txt`、`princess-sheet.txt`、`princess-negative.txt`）；`gen-sheet-princess.sh <目录> <名字> <表号>` 出穿公主装的动作表，提示词是 `princess-pose-base.txt`（`pet-base.txt` 换了服装段）。
 - `gen-fleet.sh <目录> <名字> <表文件>`：大航海服装设定图（`fleet-base.txt`、`fleet-sheet.txt`、`fleet-negative.txt`）；`gen-sheet-fleet.sh <目录> <名字> <表号>` 出穿大航海服装的动作表，提示词是 `fleet-pose-base.txt`（`pet-base.txt` 换了服装段，每格写明穿哪套）。
+- `gen-ski.sh <目录> <名字> <表文件>`：滑雪服设定图（`ski-base.txt`、`ski-sheet.txt`、`ski-negative.txt`）；`gen-sheet-ski.sh <目录> <名字> <表号>` 出穿滑雪服的动作表，提示词是 `ski-pose-base.txt`。
 - 动作表 7 的"回头挥手"第一次画成一个肩膀伸出两只胳膊，用 `edit-cell.sh` 只重画这一格（`preview/pose-7-wave-fix.webp`），负向词加了这条。
 - `patch-box.py <原图> <改过的> <输出> <x0,y0,x1,y1> [羽化] [alpha]`：只把一个方框贴回原图，边缘柔和，框外一个像素不动；加 `alpha` 时连透明度一起取。
 - `key-box.py <原图> <绿底上改过的> <输出> <x0,y0,x1,y1>`：改动超出轮廓时用。透明底上直接改，codex 会在周围留一圈半透明光晕；先把原图放到纯绿底上改，再按绿色抠回那个方框。
@@ -360,7 +364,7 @@ open "http://localhost:8820/render.html?board=DP-DesktopPet.dc.html"
 | `caption`、`controls` | `显示`、`隐藏` | 左上角的说明（正在演什么、哪档、排队、心情、抽奖状态、最近的打断和丢弃）；页面下方的按钮条 |
 
 `freeze=<毫秒>` 把时钟钉在那一刻；`tools/cdp-shot.mjs "<地址>" <输出.png>` 用无头 Chrome 截图。
-`手动` 时按钮条有：全部事件（含连送 5 份、大礼物接新的第一名）、两种抽奖的每一步、四个日常小动作和各自出事的版本、快进 10 / 30 分钟（看无聊、沮丧、犯困）。
+`手动` 时按钮条有：全部事件（含连送 5 份、大礼物接新的第一名）、两种抽奖的每一步、五个日常小动作和各自出事的版本、快进 10 / 30 分钟（看无聊、沮丧、犯困）。
 优先级、排队、连着送、冷场惊醒、抽奖被打断后回到期待，都按第 2、4、6 节在画板里跑，可以连点按钮试。
 
 截图：`preview/board-manual.webp`（手动模式和按钮条）、`preview/board-scenes.webp`（城堡四个时刻、总督、沮丧、犯困、左下角长昵称）。
